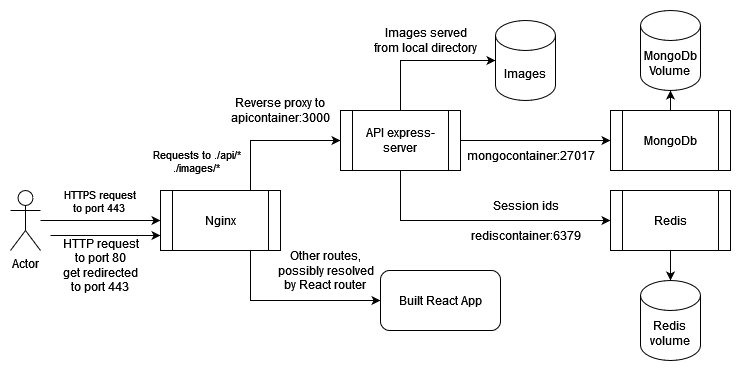
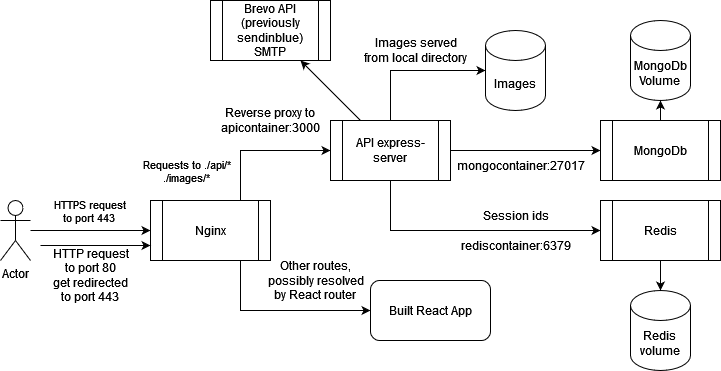
Updated documentation. Some small cleanup

diff --git a/backend/src/services/boatServices.ts b/backend/src/services/boatServices.ts
@@ -85,7 +85,6 @@ const addOwner = async (boatId: string, ownerId: string) => {
 
 const addTodo = async (boatId: string, todo: TodoEntry) => {
   const boat = await Boat.findById(boatId);
-  //check for crew and captain
   if (boat) {
     boat.todos.push(todo);
     await boat.save();
@@ -94,7 +93,6 @@ const addTodo = async (boatId: string, todo: TodoEntry) => {
 
 const removeTodo = async (boatId: string, todoId: string) => {
   const boat = await Boat.findById(boatId);
-  //check for crew and captain
   if (boat) {
     // eslint-disable-next-line @typescript-eslint/no-non-null-assertion
     await boat.todos.id(todoId)!.remove();

diff --git a/frontend/src/App.test.tsx b/frontend/src/App.test.tsx
@@ -21,7 +21,6 @@ test("renders Wesail link", async () => {
       </Provider>
     </React.StrictMode>
   );
-  //const linkElement = await screen.findByText(/Wesail/i)
-  //expect(linkElement).toBeInTheDocument()
+
   await waitFor(() => expect(consoleSpy).toHaveBeenCalledTimes(2));
 });

diff --git a/backend/src/routes/login.ts b/backend/src/routes/login.ts
@@ -1,5 +1,4 @@
 /* eslint-disable @typescript-eslint/no-misused-promises */
-//import jwt from 'jsonwebtoken'
 import bcrypt from "bcryptjs";
 import express from "express";
 import { findUser, findUserId } from "../services/userServices";

diff --git a/backend/src/redis.ts b/backend/src/redis.ts
@@ -9,5 +9,4 @@ const redisClient = createClient({ legacyMode: true, url: config.REDIS_URI });
 
 const RedisStore = connect_redis(session);
 
-//export default new RedisClient()
 export { RedisStore, redisClient };

diff --git a/documentation/requirements_specification.md b/documentation/requirements_specification.md
@@ -1,36 +1,38 @@
 ## Requirements for V1.0.0:
+
 - [x] Users can log in
 - [x] Users can log out
 - [x] New users can sign up
 - [x] Users can create a new boat
-- [X] Users can create a new log
+- [x] Users can create a new log
 - [x] Users can create a new event
 - [x] Upcoming events visible on the main page
 - [x] Events are sorted by date and only upcoming events are shown
-- [X] Logs are visible on the main page
-- [X] It is possible to toggle which logs are displayed on the main page
-- [X] It is possible to toggle which events are displayed on the main page
+- [x] Logs are visible on the main page
+- [x] It is possible to toggle which logs are displayed on the main page
+- [x] It is possible to toggle which events are displayed on the main page
 - [x] Users can search for boats and friends
 - [x] Users can send friend requests
 - [x] Users can accepts friend requests
 - [x] USers can remove friends
 - [x] Users can follow boats
-- [X] Users can join events
-- [X] Users can unjoin events
-- [X] Users can apply to be crewmembers of a boat
+- [x] Users can join events
+- [x] Users can unjoin events
+- [x] Users can apply to be crewmembers of a boat
 - [x] Boatowners can accept crewmember requests
 - [x] Boatowners can reject crewmember requests
-- [X] BoatPage contains the boat's log and upcoming events
-- [X] UserPage contains the user's log
-- [X] Boatpage has a different view for users, crewmembers and owners
-- [X] BoatView contains a list of todos
-- [X] Cremembers and owners can create todos
-- [X] Todos can be marked as done
-- [X] When marking todos as done, it is possible to create a log enty
-- [X] Past events are shown on the single boat page
-- [X] Past events can be either deleted or used to create new events
+- [x] BoatPage contains the boat's log and upcoming events
+- [x] UserPage contains the user's log
+- [x] Boatpage has a different view for users, crewmembers and owners
+- [x] BoatView contains a list of todos
+- [x] Cremembers and owners can create todos
+- [x] Todos can be marked as done
+- [x] When marking todos as done, it is possible to create a log enty
+- [x] Past events are shown on the single boat page
+- [x] Past events can be either deleted or used to create new events
 
-###  Views:
+### Views:
+
 - [x] LoginView
 - [x] SignUp view
 - [x] Mainview
@@ -39,21 +41,22 @@
 - [x] Page for creating a new boat
 - [x] BoatPage
 - [x] Page for creating a new event
-- [X] PAge for logging the location
+- [x] PAge for logging the location
 - [x] Page for creating a new Log
 
 ## Requirement specifications for V2.0.0:
+
 - [] Users can comment on log entries
 - [] Users can add a profile image for themselves
-- [] Boatowners can add a profile image for their boats
+- [x] Boat owners can add a profile image for their boats
 - [x] Notifications
 - [] email authentication for new users
-- [] forgot password fnctionality via email
-- [X] Changing of password via email
-- [X] boat owners can add more boat owners
-- [X] boat owners can delete their boat
+- [x] forgot password functionality via email
+- [x] Changing of password via email
+- [x] boat owners can add more boat owners
+- [x] boat owners can delete their boat
 - [] further specifications for boats when creating and editing a boat
   - model, year, LYS
-- [X] Creators of events can edit their events
+- [x] Creators of events can edit their events
 - [] Users can edit logs
-- [] Make a mobile friendly page
+- [x] Make a mobile friendly page

diff --git a/README.md b/README.md
@@ -30,11 +30,11 @@ Cypress has been mainly used to run tests in development. Therefore , when runni
 
 ## Architecture
 
-The application is written in typescript. The backend runs on express, and the frontend is done with React with redux as global state management. Session management is implemented via Redis and express session, and data storing via MongodB and Mongoose. Unit testing is done via Jest both in the back and frontend. E2E testing is done with cypress. Nginx is used as a reverse proxy and for serving the built React app in production mode. CI is implemented via github actions. ESLINT is used for linting and prettier for consistent code formatting. A complete list of libraries used is available [here](./documentation/libraries.md).
+The application is written in typescript. The backend runs on express, and the frontend is done with React with redux as global state management. Session management is implemented via Redis and express session, and data storing via MongodB and Mongoose. Email services is implemented via Brevos's (previously sendinblue) API. Unit testing is done via Jest both in the back and frontend. E2E testing is done with cypress. Nginx is used as a reverse proxy and for serving the built React app in production mode. The production version uses google analytics for user analytics. CI is implemented via github actions. ESLINT is used for linting and prettier for consistent code formatting. A complete list of libraries used is available [here](./documentation/libraries.md).
 
 ![architecture](./documentation/images/architecture.png)
 
-The image above shows the architecture of the running app in production mode. The production version of application is Hosted via digital ocean, running on <https://joukko.io>. The production version is running at the moment via docker compose, but I am working on migrating to kubernetes, the initial kubernetes conf files are in the [./kubernetes](kubernetes) folder, but these are not yet ready.
+The image above shows the architecture of the running app in production mode. The production version of application is Hosted via digital ocean, running on <https://joukko.io>. The production version is running at the moment via docker swarm, but I am working on migrating to kubernetes, the initial kubernetes conf files are in the [./kubernetes](kubernetes) folder, but these are not yet ready.
 
 ### Folder architecture
 
@@ -48,7 +48,7 @@ As one can see from the Dockerfile, during production, the frontend is first bui
 
 ## Security
 
-THe application uses the https protocol, requests for port 80 will be redirected to port 443. The user's passwords are stored in hashed form. Session management is managed by sessionid coockies.
+The application uses the https protocol, requests for port 80 will be redirected to port 443. The user's passwords are stored in hashed form. Session management is managed by sessionid coockies.
 
 ## Worklog
 

diff --git a/documentation/getting_started.md b/documentation/getting_started.md
@@ -5,6 +5,7 @@
 - [Navigation bar](#navigation-bar)
 - [Logging in](#logging-in)
 - [Signing up](#signing-up)
+- [Forgotten Password](#forgotten-password)
 - [Creating a new boat](#creating-a-new-boat)
 - [Main page](#main-page)
 - [Boat page](#boat-page)
@@ -29,11 +30,15 @@ In addition the navigation bar contains a search bar for searching for users and
 
 ## Logging in
 
-When opening the app for the first time a login form is presented. One can login ith the test user (username: test, password: salasana) or with any other created user by typing in username and password into their respective fields an clicking on the login button.
+When opening the app for the first time a login form is presented. One can login with the test user (username: test, password: salasana) or with any other created user by typing in username and password into their respective fields an clicking on the login button.
 
 ## Signing up
 
 A new user can be created via the sign up link in the right corner of the menu bar. The use has to enter a unique username, a password two times and an email. At the moment any string is accepted as an email. The passwords have to match in order to create a new user. When a new user is created the user is redireted to the login view and the user is able to login with the new credentials.
+
+## Forgotten Password
+
+Users who have forgotten their passwords can change their password by clicking the forgotten password? link on the front page or login page. A link to change the password will be sent to the user's email address.
 
 ## Creating a new boat
 
@@ -53,7 +58,7 @@ Users that are not boat owners or crew members can start following a boat in ord
 
 ### Settings
 
-Boat owners can access the boat settings by pressing the edit button. Via the settings it is possible add other owners to the boat and delete the boat.
+Boat owners can access the boat settings by pressing the edit button. Via the settings it is possible add other owners to the boat, change the profile picture of the boat and delete the boat.
 
 ### Events
 

diff --git a/documentation/libraries.md b/documentation/libraries.md
@@ -1,6 +1,7 @@
 A list for my self to keep track of all the technologies and libraries used in this project.
 
 ## BackEnd
+
 - Express
 - Express-session, DEBUG=express-session
 - Redis
@@ -9,6 +10,7 @@ A list for my self to keep track of all the technologies and libraries used in t
 - bcrypt
 
 ### Development
+
 - Postman
 - gitk
 - Mongosh
@@ -16,10 +18,12 @@ A list for my self to keep track of all the technologies and libraries used in t
 - Jest
 - Supertest
 - mongodb-memory-server
+- Cypress
 - ts-jest
 - ts-node-dev
 
 ## FrontEnd
+
 - React
 - React-router
 - Axios
@@ -32,11 +36,11 @@ A list for my self to keep track of all the technologies and libraries used in t
 - react-hot-toast
 
 ### Development
+
 - Deep freeze
 
-## Mobile
+## DevOps
 
-## DEvOps
 - Docker
 - Docker-compose
 - Kubernetes
